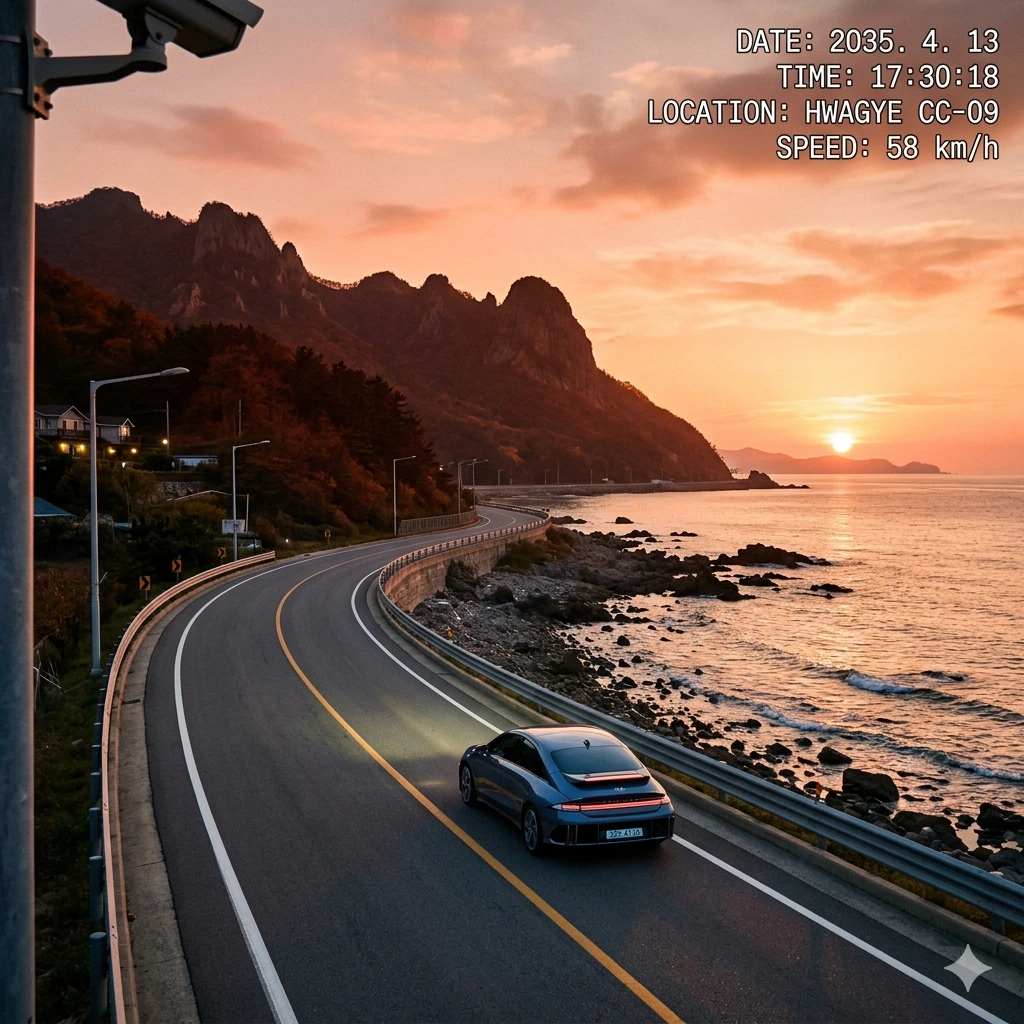
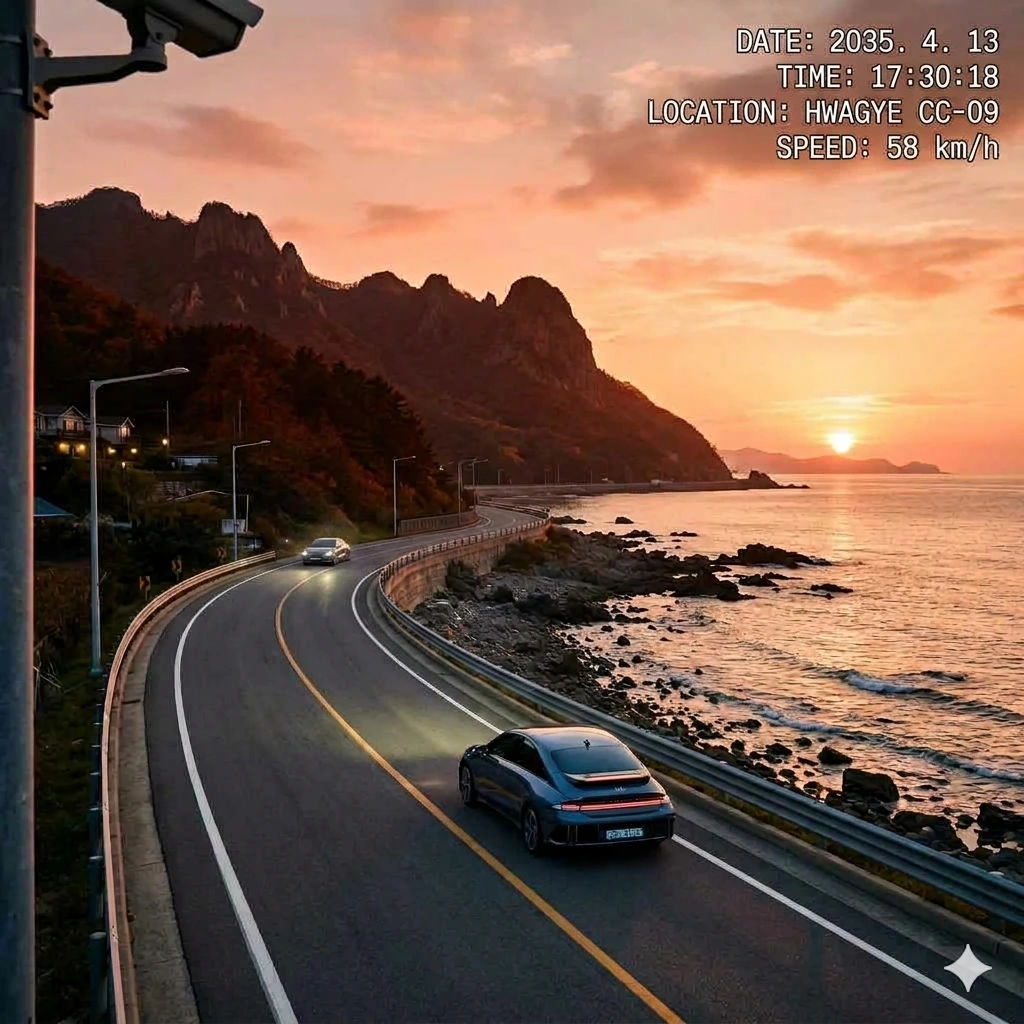
엔딩별 주변인물 대화 추가 + 전설 엔딩 조건 강화 + cctv 이미지 최적화

diff --git a/game.html b/game.html
@@ -11377,7 +11377,8 @@ function showEnding(){
   if(!ending && s.lawKnowledge>=980 && s.debate>=980 && s.observation>=980 && s.sales>=980 &&
      s.reputation>=980 && s.charm>=980 && s.morality>=980 && s.sociability>=980 &&
      s.stamina>=980 && s.mental>=980 && s.karma===0 && G.phdCompleted &&
-     G.specialLawyer && G.specialLawyer.length>=3 && wr>=70) {
+     G.specialLawyer && G.specialLawyer.length>=3 && wr>=70 &&
+     G.mainStoryFlag && G.mainStoryFlag.case4_cleared) {
     ending = {title:'전설의 변호사', bg:'배경/서면.webp',
       commonText:'변호사란 무엇일까. 변호사의 길의 끝에 가면 그 답을 찾을 수 있을 거라 생각했고, 나는 그 길의 끝에 드디어 도달했다. 변호사가 다다를 수 있는 극한, 전설의 변호사, 그 경지에 도달한 것이다. 그렇다. 나는 전설이다.',
       grade:null, gradeText:''};
@@ -11601,6 +11602,174 @@ function showEndingScreen(ending) {
   }, 2000);
 }
 
+// 엔딩별 주변인물 대화 데이터
+function getEndingDialogues(title) {
+  ensureRomance();
+  const allyFace = G.gender==='male' ? '캐릭터얼굴/동료여자어쏘.webp' : '캐릭터얼굴/동료남자어쏘.webp';
+  const spouseTarget = getRomanceTargets().find(t=>t.id===G.romance.dating);
+  const spouseFace = spouseTarget ? spouseTarget.face : getPlayerFace();
+  const spouseName = spouseTarget ? spouseTarget.name : '배우자';
+  const n = G.name;
+  const map = {
+    '전설의 변호사': [
+      {face:'캐릭터얼굴/판사.webp', speaker:'판사', text:'대한민국 법조사에 '+n+' 변호사의 이름이 영원히 남을 것입니다.'},
+      {face:'player', speaker:n, text:'과분한 말씀입니다.'},
+      {face:'캐릭터얼굴/판사.webp', speaker:'판사', text:'과분하다뇨. 법조인이라면 누구나 존경하는 이름이 되었는데요. 특히 법조카르텔을 무너뜨린건, '+n+' 변호사가 아니면 거의 불가능한 일이었을 겁니다.'},
+      {face:'player', speaker:n, text:'저는 그저 제가 할 수 있는 일을 했을 뿐입니다.'},
+      {face:'캐릭터얼굴/판사.webp', speaker:'판사', text:'그 한 마디가, 전설이 되는 이유입니다.'},
+    ],
+    '악덕변호사': [
+      {face:'캐릭터얼굴/대표변호사.webp', speaker:'대표변호사', text:n+', 자네... 요즘 좀 변한 것 같아.'},
+      {face:'player', speaker:n, text:'무슨 말씀이세요.'},
+      {face:'캐릭터얼굴/대표변호사.webp', speaker:'대표변호사', text:'처음 자네가 우리 로펌에 왔을 때의 그 눈빛이 없어졌다는 거야. 그때는 정의로운 눈빛이었는데.'},
+      {face:'player', speaker:n, text:'...정의가 밥 먹여주던가요. 저는 잘 먹고 잘 살 겁니다.'},
+      {face:'캐릭터얼굴/대표변호사.webp', speaker:'대표변호사', text:'그렇구만. 그래, 술이나 한 잔 더 하자고.'},
+    ],
+    '정치인': [
+      {face:'캐릭터얼굴/법학교수.webp', speaker:'법학교수', text:n+', 정치의 길을 택했다고 들었네.'},
+      {face:'player', speaker:n, text:'네, 교수님. 법을 만드는 쪽에 서고 싶었습니다.'},
+      {face:'캐릭터얼굴/법학교수.webp', speaker:'법학교수', text:'변호사로서도 훌륭했는데, 정치인으로서는 더 큰 일을 하겠군.'},
+      {face:'player', speaker:n, text:'교수님이 가르쳐주신 것들이 정치에서도 큰 힘이 됩니다.'},
+      {face:'캐릭터얼굴/법학교수.webp', speaker:'법학교수', text:'초심을 잃지 않는 정치인이 되게나. 자네라면 할 수 있을 거야.'},
+    ],
+    '판사': [
+      {face:'캐릭터얼굴/검사.webp', speaker:'강혁', text:'판사가 됐다고? 축하해.'},
+      {face:'player', speaker:n, text:'고마워. 이제 너랑 법정에서 만나겠네.'},
+      {face:'캐릭터얼굴/검사.webp', speaker:'강혁', text:'저한테 너무 불리한 판결은 내리지 마세요.'},
+      {face:'player', speaker:n, text:'공정하게 하겠지. 법 앞에서는 누구나 평등하니까.'},
+      {face:'캐릭터얼굴/검사.webp', speaker:'강혁', text:'그 말, '+n+'답네요. 좋은 판사가 될 거라 믿습니다.'},
+    ],
+    '고위공무원': [
+      {face:'캐릭터얼굴/대표변호사.webp', speaker:'대표변호사', text:'자네가 공직에 나간다니, 아깝기도 하고 대견하기도 하고.'},
+      {face:'player', speaker:n, text:'법률 전문성을 국가를 위해 쓰고 싶었습니다.'},
+      {face:'캐릭터얼굴/대표변호사.webp', speaker:'대표변호사', text:'자네 정도 실력이면, 로펌에 있었으면 돈은 더 많이 벌었겠지만.'},
+      {face:'player', speaker:n, text:'돈보다 보람 있는 일이 있더라고요.'},
+      {face:'캐릭터얼굴/대표변호사.webp', speaker:'대표변호사', text:'그 마음 변하지 않기를 바라네. 힘내게.'},
+    ],
+    '변호사협회장': [
+      {face:'캐릭터얼굴/대한변협협회장.webp', speaker:'전임 협회장', text:'이제 이 자리는 자네 것이네, '+n+' 변호사.'},
+      {face:'player', speaker:n, text:'무거운 자리입니다. 잘 할 수 있을지...'},
+      {face:'캐릭터얼굴/대한변협협회장.webp', speaker:'전임 협회장', text:'자네만큼 동료들에게 헌신한 사람이 없어. 적임자야.'},
+      {face:'player', speaker:n, text:'변호사들이 자부심을 가질 수 있는 환경을 만들겠습니다.'},
+      {face:'캐릭터얼굴/대한변협협회장.webp', speaker:'전임 협회장', text:'그 말 잊지 말게. 기대하겠네.'},
+    ],
+    '대표변호사': [
+      {face:allyFace, speaker:'동료', text:'대표님, 저도 대표님처럼 되고 싶어요.'},
+      {face:'player', speaker:n, text:'나도 처음엔 막막했어. 하나씩 하다 보니 여기까지 왔지.'},
+      {face:allyFace, speaker:'동료', text:'비결이 뭐예요?'},
+      {face:'player', speaker:n, text:'포기하지 않는 거. 그게 전부야.'},
+      {face:allyFace, speaker:'동료', text:'대표님 밑에서 일할 수 있어서 영광이었습니다.'},
+    ],
+    '대형펌 파트너': [
+      {face:allyFace, speaker:'동료', text:n+' 변호사님, 어쏘 시절이 그리우시진 않으세요?'},
+      {face:'player', speaker:n, text:'전혀. 어쏘시절을 그리워하는 사람도 있나?'},
+      {face:allyFace, speaker:'동료', text:'월급만 받으면 되니 마음이 편해서..??'},
+      {face:'player', speaker:n, text:'아니, 변호사라면 자신의 길을 스스로 만들어 나가야지. 언젠가는 독립해야해.'},
+      {face:allyFace, speaker:'동료', text:'멋있네요. 저도 언젠가 파트너가 되고 싶어요.'},
+    ],
+    '로스쿨교수': [
+      {face:'캐릭터얼굴/법학교수.webp', speaker:'법학교수', text:'이제 동료가 됐구만, '+n+' 교수.'},
+      {face:'player', speaker:n, text:'교수님 밑에서 배운 것들이 있어서 여기까지 올 수 있었습니다.'},
+      {face:'캐릭터얼굴/법학교수.webp', speaker:'법학교수', text:'자네 실무 경험이면 학생들에게 최고의 강의가 될 거야.'},
+      {face:'player', speaker:n, text:'제가 받은 만큼 돌려주고 싶습니다.'},
+      {face:'캐릭터얼굴/법학교수.webp', speaker:'법학교수', text:'좋은 스승이 될 거라 믿네. 함께 잘 해보세.'},
+    ],
+    '인권변호사': [
+      {face:'캐릭터얼굴/이희선.webp', speaker:'이희선', text:n+' 변호사님, 오늘도 무료 상담이에요?'},
+      {face:'player', speaker:n, text:'네. 도움이 필요한 분들이 많으니까요.'},
+      {face:'캐릭터얼굴/이희선.webp', speaker:'이희선', text:'변호사님 같은 분이 있어서 정말 든든해요.'},
+      {face:'player', speaker:n, text:'이희선 씨야말로. 사회복지사로서 항상 현장에 계시잖아요.'},
+      {face:'캐릭터얼굴/이희선.webp', speaker:'이희선', text:'우리 같이 계속 힘내요. 아직 도와야 할 사람이 많으니까.'},
+    ],
+    '대기업임원': [
+      {face:'캐릭터얼굴/기업임원.webp', speaker:'상사', text:n+' 이사, 이번 분기 실적이 좋더군.'},
+      {face:'player', speaker:n, text:'팀원들이 잘 따라줬습니다.'},
+      {face:'캐릭터얼굴/기업임원.webp', speaker:'상사', text:'겸손하기는. 법무팀이 이 정도로 강해진 건 자네 덕이야.'},
+      {face:'player', speaker:n, text:'감사합니다. 더 노력하겠습니다.'},
+      {face:'캐릭터얼굴/기업임원.webp', speaker:'상사', text:'다음 이사회에서 좋은 소식이 있을 거야. 기대하게.'},
+    ],
+    '투자의귀재': [
+      {face:'캐릭터얼굴/기자.webp', speaker:'기자', text:n+' 변호사님, 투자 비결이 뭔가요?'},
+      {face:'player', speaker:n, text:'분석이요. 변호사는 원래 자료 분석을 잘 하거든요.'},
+      {face:'캐릭터얼굴/기자.webp', speaker:'기자', text:'그래도 이 정도 수익률은 보통이 아닌데요.'},
+      {face:'player', speaker:n, text:'운도 좀 따라줬죠. 그리고 무리하지 않는 것이 중요합니다.'},
+      {face:'캐릭터얼굴/기자.webp', speaker:'기자', text:'다음에 투자 강연도 한번 부탁드려도 될까요?'},
+    ],
+    '너튜버변호사': [
+      {face:'캐릭터얼굴/기자.webp', speaker:'기자', text:'구독자 100만 돌파 축하드립니다! 비결이 뭐예요?'},
+      {face:'player', speaker:n, text:'그냥 꾸준히 했을 뿐이에요. 사람들이 궁금해하는 법률 이야기를.'},
+      {face:'캐릭터얼굴/기자.webp', speaker:'기자', text:'변호사 업무와 병행하기 힘들지 않으세요?'},
+      {face:'player', speaker:n, text:'솔직히 힘들죠. 하지만 댓글에 \'도움 받았습니다\'라는 글을 볼 때마다 힘이 나요.'},
+      {face:'캐릭터얼굴/기자.webp', speaker:'기자', text:'앞으로의 계획은요?'},
+      {face:'player', speaker:n, text:'법률을 더 쉽고 재밌게 전달하는 게 목표입니다.'},
+    ],
+    '인플루언서변호사': [
+      {face:'캐릭터얼굴/기자.webp', speaker:'기자', text:'팔로워들과의 소통 비결이 있나요?'},
+      {face:'player', speaker:n, text:'진심이요. 법률 상담도 진심으로, 일상 공유도 진심으로.'},
+      {face:'캐릭터얼굴/기자.webp', speaker:'기자', text:'DM으로 상담도 하신다면서요?'},
+      {face:'player', speaker:n, text:'네. 돈이 없어서 변호사를 못 만나는 분들에게 간단한 법률 조언이라도 해드리고 싶어서요.'},
+      {face:'캐릭터얼굴/기자.webp', speaker:'기자', text:'정말 따뜻한 변호사시네요.'},
+    ],
+    '연예인변호사': [
+      {face:'캐릭터얼굴/방송국pd.webp', speaker:'방송국PD', text:'변호사인데 연예인보다 인기가 많으시네요!'},
+      {face:'player', speaker:n, text:'과찬이세요. 저는 변호사가 본업인걸요.'},
+      {face:'캐릭터얼굴/방송국pd.webp', speaker:'방송국PD', text:'혹시 연기 제안 받으신 적 있으세요?'},
+      {face:'player', speaker:n, text:'몇 번 있었는데, 정중히 거절했어요. 법정 드라마는 제가 직접 살고 있으니까요.'},
+      {face:'캐릭터얼굴/방송국pd.webp', speaker:'방송국PD', text:'역시 .. 진짜 연예인 데뷔하시는 거 아니에요?!'},
+    ],
+    '방송변호사': [
+      {face:'캐릭터얼굴/기자.webp', speaker:'기자', text:'오늘도 해설 감사합니다. 시청자 반응이 뜨거워요.'},
+      {face:'player', speaker:n, text:'어려운 법률 문제를 쉽게 설명하는 게 제 역할이니까요.'},
+      {face:'캐릭터얼굴/기자.webp', speaker:'기자', text:'비결이 뭐예요? 다른 변호사분들은 어렵게 말씀하시거든요.'},
+      {face:'player', speaker:n, text:'법정에서 배운 거예요. 판사도, 배심원도 쉬운 말을 좋아하거든요.'},
+      {face:'캐릭터얼굴/기자.webp', speaker:'기자', text:'다음 주에도 출연 가능하시죠?'},
+    ],
+    '국제기구활동가': [
+      {face:'캐릭터얼굴/법학교수.webp', speaker:'법학교수', text:'세계를 무대로 활동하고 있다니, 자랑스럽구만.'},
+      {face:'player', speaker:n, text:'교수님 수업에서 국제인권법을 배운 게 시작이었어요.'},
+      {face:'캐릭터얼굴/법학교수.webp', speaker:'법학교수', text:'대한민국 변호사가 유엔에서 활동한다니, 내가 다 뿌듯하네.'},
+      {face:'player', speaker:n, text:'아직 부족한 게 많지만, 계속 노력하겠습니다.'},
+      {face:'캐릭터얼굴/법학교수.webp', speaker:'법학교수', text:'세상을 바꾸는 건 바로 자네 같은 사람이야.'},
+    ],
+    '동네변호사': [
+      {face:'캐릭터얼굴/의뢰인1.webp', speaker:'동네 주민', text:n+' 변호사님! 지난번 건 덕분에 잘 해결됐어요.'},
+      {face:'player', speaker:n, text:'다행이네요. 별거 아닌 일이었는데.'},
+      {face:'캐릭터얼굴/의뢰인1.webp', speaker:'동네 주민', text:'별거 아니긴요! 변호사님 아니었으면 어떡할 뻔했어요.'},
+      {face:'player', speaker:n, text:'그런 말씀 해주시면 보람차죠.'},
+      {face:'캐릭터얼굴/의뢰인1.webp', speaker:'동네 주민', text:'우리 동네 최고의 변호사예요, 진짜!'},
+    ],
+    '학원강사': [
+      {face:'캐릭터얼굴/법학교수.webp', speaker:'법학교수', text:'강의에 소질이 있다던데? 학생들 사이에서 인기가 대단하다고 들었네.'},
+      {face:'player', speaker:n, text:'가르치는 게 생각보다 재밌더라고요.'},
+      {face:'캐릭터얼굴/법학교수.webp', speaker:'법학교수', text:'실무 경험이 있는 강사가 최고지. 학생들이 복 받은 거야.'},
+      {face:'player', speaker:n, text:'제 수업 들은 학생이 변호사 됐다고 연락 올 때가 제일 뿌듯해요.'},
+      {face:'캐릭터얼굴/법학교수.webp', speaker:'법학교수', text:'그게 교육자의 보람이야. 자네도 이제 알겠지?'},
+    ],
+    '결혼/가정': [
+      {face:spouseFace, speaker:spouseName, text:'오늘 우리 몇 주년이야. 알고 있어?'},
+      {face:'player', speaker:n, text:'당연히 알지. 매년 이 날만 기다린다고.'},
+      {face:spouseFace, speaker:spouseName, text:'거짓말. 작년에는 까먹었잖아.'},
+      {face:'player', speaker:n, text:'올해는 안 까먹었으니 됐잖아.'},
+      {face:spouseFace, speaker:spouseName, text:'...고마워. 항상 곁에 있어줘서.'},
+    ],
+    '휴업변호사': [
+      {face:'캐릭터얼굴/대표변호사.webp', speaker:'대표변호사', text:'자네 요즘은 일을 안 하고 쉰다고 들었는데, '+n+'.'},
+      {face:'player', speaker:n, text:'네... 좀 지쳤나 봅니다. 변호사 일 말고 다른 일을 해볼까도 생각중이에요.'},
+      {face:'캐릭터얼굴/대표변호사.webp', speaker:'대표변호사', text:'충분히 쉬고 돌아와. 자네 자리는 항상 있으니까.'},
+      {face:'player', speaker:n, text:'감사합니다. 다시 시작할 힘을 좀 충전하고 올게요.'},
+      {face:'캐릭터얼굴/대표변호사.webp', speaker:'대표변호사', text:'그래. 기다리고 있겠네.'},
+    ],
+    '평범한변호사': [
+      {face:'캐릭터얼굴/대표변호사.webp', speaker:'대표변호사', text:'10년이 벌써 지났구만, '+n+'.'},
+      {face:'player', speaker:n, text:'빠르게 지나갔네요. 어제 입사한 것 같은데.'},
+      {face:'캐릭터얼굴/대표변호사.webp', speaker:'대표변호사', text:'자네는 묵묵히 자기 길을 걸어왔어. 그게 얼마나 대단한 건지 아나?'},
+      {face:'player', speaker:n, text:'대단할 것까진... 그냥 매일 최선을 다한 것 뿐이에요.'},
+      {face:'캐릭터얼굴/대표변호사.webp', speaker:'대표변호사', text:'그게 대단한 거야. 앞으로 10년도 기대하겠네.'},
+    ],
+  };
+  return map[title] || [];
+}
+
 function showEndingVN(ending) {
   // 2. VN 윈도우 설정
   const vnEl = document.getElementById('ending-vn');
@@ -11616,19 +11785,55 @@ function showEndingVN(ending) {
   // 3. VN 윈도우 페이드인
   setTimeout(() => { vnEl.style.opacity = '1'; }, 500);
 
-  // 4. 클릭 흐름
-  let phase = 0;
+  // 엔딩 대화 데이터
+  const endingDialogues = getEndingDialogues(ending.title);
+  let dialogueIdx = 0;
+
+  // 4. 클릭 흐름: 공통 내레이션 → 주변인물 대화 → 등급 평가 → 크레딧
+  let phase = 0; // 0=공통, 1=대화, 2=등급, 3=크레딧
   window._endingNext = function() {
-    phase++;
+    if (phase === 0) {
+      // 공통 내레이션 끝 → 대화 시작
+      phase = 1;
+      dialogueIdx = 0;
+      if (endingDialogues.length === 0) { phase = 2; window._endingNext(); return; }
+      const d = endingDialogues[0];
+      const face = d.face === 'player' ? getPlayerFace() : d.face;
+      document.getElementById('ending-face-img').src = face;
+      document.getElementById('ending-speaker').textContent = d.speaker;
+      document.getElementById('ending-dialog-text').textContent = d.text;
+      dialogueIdx = 1;
+      return;
+    }
     if (phase === 1) {
+      // 대화 진행
+      if (dialogueIdx < endingDialogues.length) {
+        const d = endingDialogues[dialogueIdx];
+        const face = d.face === 'player' ? getPlayerFace() : d.face;
+        document.getElementById('ending-face-img').src = face;
+        document.getElementById('ending-speaker').textContent = d.speaker;
+        document.getElementById('ending-dialog-text').textContent = d.text;
+        dialogueIdx++;
+        return;
+      }
+      // 대화 끝 → 등급 평가
+      phase = 2;
+      document.getElementById('ending-face-img').src = getPlayerFace();
+      document.getElementById('ending-speaker').textContent = G.name;
       if (ending.gradeText) {
         document.getElementById('ending-dialog-text').textContent = ending.gradeText;
-      } else {
-        phase++;
+        return;
       }
+      // gradeText 없으면 바로 크레딧
+      phase = 3;
+      window._endingNext();
+      return;
     }
     if (phase === 2) {
-      // VN 윈도우 페이드아웃 + 집 배경 페이드아웃 → 크레딧 시퀀스
+      phase = 3;
+    }
+    if (phase === 3) {
+      // 크레딧으로
       vnEl.style.opacity = '0';
       const homeBg = document.getElementById('ending-home-bg');
       homeBg.style.transition = 'opacity 1.5s';
